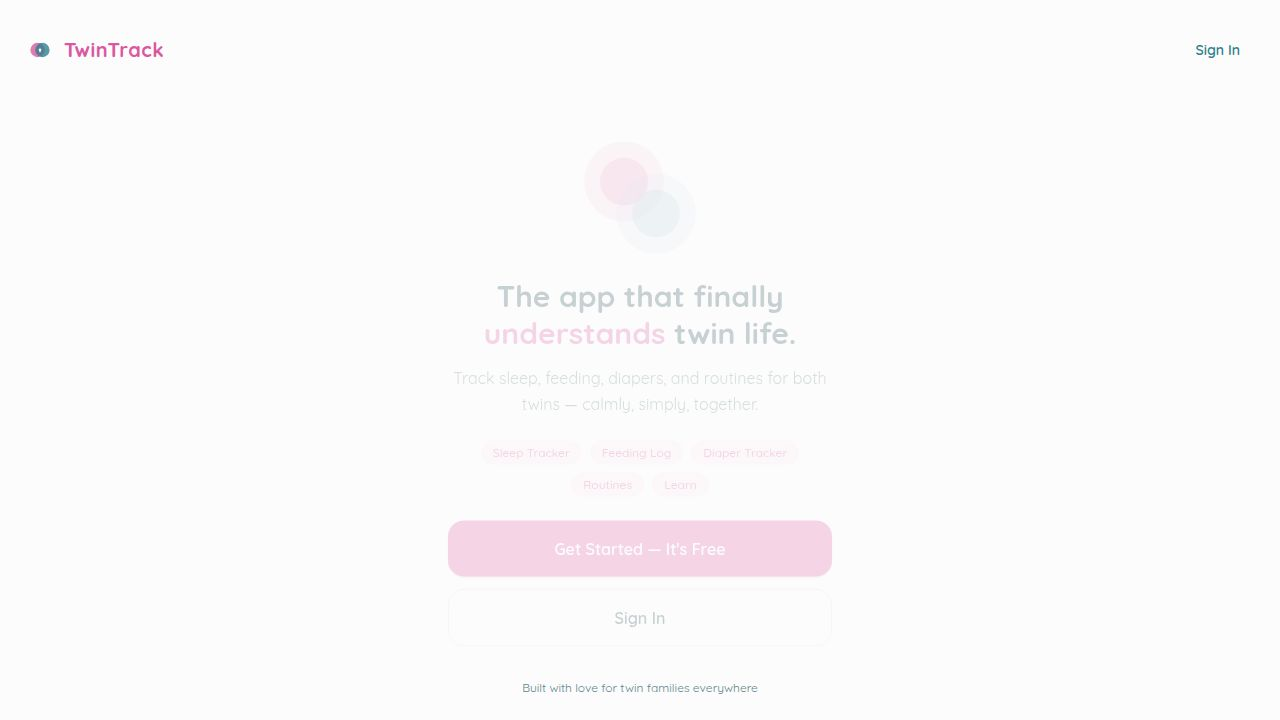
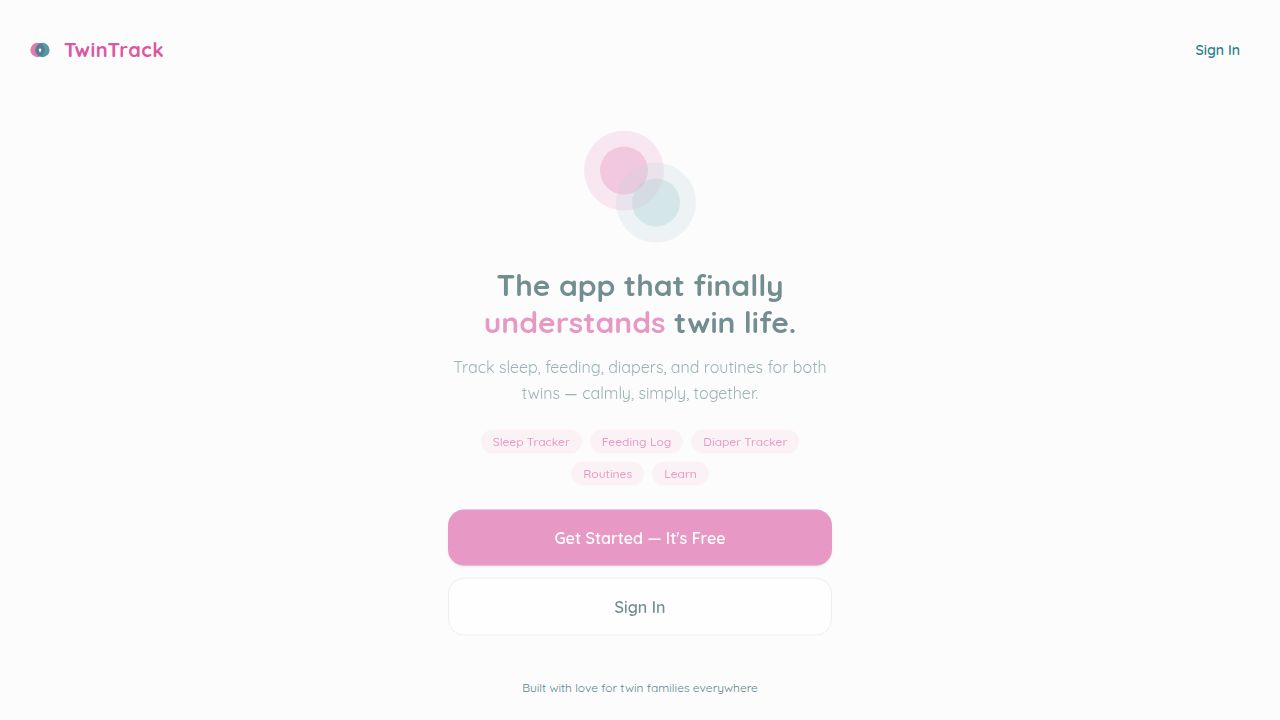
Add caregiver invitation and acceptance flow
Update email sender address, add invite acceptance page, and integrate it into the app's routing.

Replit-Commit-Author: Agent
Replit-Commit-Session-Id: f5ed3eb9-af06-40d8-8ca2-c9c312aa1837
Replit-Commit-Checkpoint-Type: full_checkpoint
Replit-Commit-Event-Id: 3c010cc5-094a-435e-ba3e-4c28eb4870d6
Replit-Commit-Screenshot-Url: https://storage.googleapis.com/screenshot-production-us-central1/cb549dcf-6132-430c-bd0d-0a8318e29405/f5ed3eb9-af06-40d8-8ca2-c9c312aa1837/pKzJKXF
Replit-Helium-Checkpoint-Created: true

diff --git a/artifacts/twintrack/src/pages/InviteAccept.tsx b/artifacts/twintrack/src/pages/InviteAccept.tsx
@@ -1,0 +1,213 @@
+import { useEffect, useState } from "react";
+import { useUser, SignIn, SignUp } from "@clerk/react";
+import { useLocation } from "wouter";
+
+type Step = "loading" | "preview" | "sign-in" | "sign-up" | "accepting" | "done" | "error";
+
+interface InviteInfo {
+  role: string;
+  ownerName?: string;
+}
+
+const basePath = import.meta.env.BASE_URL.replace(/\/$/, "");
+
+export default function InviteAccept() {
+  const { isSignedIn, isLoaded, user } = useUser();
+  const [, setLocation] = useLocation();
+
+  const token = (() => {
+    try { return new URLSearchParams(window.location.search).get("token") ?? ""; }
+    catch { return ""; }
+  })();
+
+  const [step, setStep] = useState<Step>("loading");
+  const [info, setInfo] = useState<InviteInfo | null>(null);
+  const [errorMsg, setErrorMsg] = useState("");
+
+  // Once Clerk loads, decide what to show
+  useEffect(() => {
+    if (!isLoaded) return;
+    if (!token) { setStep("error"); setErrorMsg("Invalid invite link — no token found."); return; }
+    if (isSignedIn) {
+      setStep("accepting");
+    } else {
+      setStep("preview");
+      setInfo({ role: "Caregiver" });
+    }
+  }, [isLoaded, isSignedIn, token]);
+
+  // Accept the invite once signed in
+  useEffect(() => {
+    if (step !== "accepting" || !user?.id || !token) return;
+
+    fetch("/api/caregivers/accept", {
+      method: "POST",
+      headers: { "Content-Type": "application/json" },
+      body: JSON.stringify({ token, userId: user.id }),
+    })
+      .then(async (res) => {
+        if (res.ok) {
+          setStep("done");
+          setTimeout(() => setLocation("/dashboard"), 1800);
+        } else {
+          const body = await res.json().catch(() => ({})) as { error?: string };
+          setErrorMsg(body.error ?? `Invite failed (${res.status})`);
+          setStep("error");
+        }
+      })
+      .catch((err) => {
+        setErrorMsg(String(err));
+        setStep("error");
+      });
+  }, [step, user?.id, token, setLocation]);
+
+  const Shell = ({ children }: { children: React.ReactNode }) => (
+    <div className="min-h-[100dvh] bg-gradient-to-br from-pink-50 via-purple-50 to-white flex flex-col items-center justify-center p-6">
+      <div className="w-full max-w-sm bg-white rounded-3xl shadow-xl overflow-hidden">
+        {/* Header */}
+        <div className="bg-gradient-to-br from-[#e91e8c] to-[#9c27b0] px-6 py-8 text-center">
+          <div className="text-5xl mb-3">👶</div>
+          <p className="text-xs font-bold tracking-widest text-white/70 uppercase mb-1">TwinTrack</p>
+          <h1 className="text-xl font-extrabold text-white leading-snug">
+            You've been invited<br/>to help with the twins 💕
+          </h1>
+        </div>
+        {children}
+      </div>
+    </div>
+  );
+
+  if (step === "loading") {
+    return (
+      <Shell>
+        <div className="px-6 py-10 text-center text-muted-foreground text-sm">
+          Loading invite…
+        </div>
+      </Shell>
+    );
+  }
+
+  if (step === "done") {
+    return (
+      <Shell>
+        <div className="px-6 py-10 text-center space-y-3">
+          <div className="text-5xl">🎉</div>
+          <p className="font-bold text-lg text-foreground">You're in!</p>
+          <p className="text-sm text-muted-foreground">Heading to your family dashboard…</p>
+        </div>
+      </Shell>
+    );
+  }
+
+  if (step === "accepting") {
+    return (
+      <Shell>
+        <div className="px-6 py-10 text-center text-sm text-muted-foreground space-y-3">
+          <div className="w-8 h-8 border-2 border-primary border-t-transparent rounded-full animate-spin mx-auto" />
+          <p>Linking you to the family…</p>
+        </div>
+      </Shell>
+    );
+  }
+
+  if (step === "error") {
+    return (
+      <Shell>
+        <div className="px-6 py-10 text-center space-y-4">
+          <div className="text-4xl">⚠️</div>
+          <p className="font-bold text-foreground">Invite problem</p>
+          <p className="text-sm text-muted-foreground">{errorMsg}</p>
+          <p className="text-xs text-muted-foreground">
+            Ask the parent to send you a fresh invite link from their Settings.
+          </p>
+        </div>
+      </Shell>
+    );
+  }
+
+  if (step === "sign-in") {
+    return (
+      <div className="min-h-[100dvh] bg-gradient-to-br from-pink-50 via-purple-50 to-white flex flex-col items-center justify-center p-4">
+        <SignIn
+          routing="hash"
+          signUpUrl={`${basePath}/invite?token=${token}#sign-up`}
+          fallbackRedirectUrl={`${basePath}/invite?token=${token}`}
+        />
+        <button
+          onClick={() => setStep("preview")}
+          className="mt-4 text-xs text-muted-foreground underline underline-offset-2"
+        >
+          Back
+        </button>
+      </div>
+    );
+  }
+
+  if (step === "sign-up") {
+    return (
+      <div className="min-h-[100dvh] bg-gradient-to-br from-pink-50 via-purple-50 to-white flex flex-col items-center justify-center p-4">
+        <SignUp
+          routing="hash"
+          signInUrl={`${basePath}/invite?token=${token}#sign-in`}
+          fallbackRedirectUrl={`${basePath}/invite?token=${token}`}
+        />
+        <button
+          onClick={() => setStep("preview")}
+          className="mt-4 text-xs text-muted-foreground underline underline-offset-2"
+        >
+          Back
+        </button>
+      </div>
+    );
+  }
+
+  // preview — signed-out landing
+  return (
+    <Shell>
+      <div className="px-6 py-7 space-y-5">
+        {info && (
+          <p className="text-sm text-center text-muted-foreground leading-relaxed">
+            A family has invited you to help track their twins as{" "}
+            <strong className="text-foreground">{info.role}</strong> using TwinTrack.
+          </p>
+        )}
+
+        {/* Feature highlights */}
+        <div className="bg-purple-50 rounded-2xl px-4 py-4 space-y-2">
+          {[
+            "🌙 Track sleep together",
+            "🍼 Log feedings in one tap",
+            "🚼 Record diaper changes",
+            "📊 Live dashboard for both babies",
+          ].map((f) => (
+            <p key={f} className="text-xs text-muted-foreground">{f}</p>
+          ))}
+        </div>
+
+        {/* CTAs */}
+        <div className="space-y-2.5">
+          <button
+            onClick={() => setStep("sign-up")}
+            className="w-full py-3.5 rounded-2xl bg-gradient-to-r from-[#e91e8c] to-[#9c27b0] text-white font-bold text-sm shadow-md active:scale-95 transition-all"
+            data-testid="btn-invite-create-account"
+          >
+            Create a free account →
+          </button>
+          <button
+            onClick={() => setStep("sign-in")}
+            className="w-full py-3.5 rounded-2xl border border-border text-sm font-semibold text-foreground active:scale-95 transition-all"
+            data-testid="btn-invite-sign-in"
+          >
+            I already have an account — Sign in
+          </button>
+        </div>
+
+        <p className="text-[11px] text-center text-muted-foreground leading-relaxed">
+          TwinTrack is free for caregivers. By joining you agree to our{" "}
+          <a href="https://allaboutwins.com/terms" className="underline">Terms</a> and{" "}
+          <a href="https://allaboutwins.com/privacy" className="underline">Privacy Policy</a>.
+        </p>
+      </div>
+    </Shell>
+  );
+}

diff --git a/artifacts/api-server/src/lib/email.ts b/artifacts/api-server/src/lib/email.ts
@@ -21,7 +21,7 @@ async function sendWithResend(params: CaregiverInviteParams): Promise<EmailResul
   }
   const resend = new Resend(apiKey);
   const { data, error } = await resend.emails.send({
-    from: "TwinTrack <[email redacted]>",
+    from: "TwinTrack <[email redacted]>",
     to: params.to,
     subject: `${params.parentName} invited you to help with the twins 💕`,
     html: buildCaregiverInviteHtml(params),

diff --git a/artifacts/twintrack/src/App.tsx b/artifacts/twintrack/src/App.tsx
@@ -31,6 +31,7 @@ import TwinAI from "@/pages/TwinAI";
 import VideoAdmin from "@/pages/VideoAdmin";
 import Admin from "@/pages/Admin";
 import Stats from "@/pages/Stats";
+import InviteAccept from "@/pages/InviteAccept";
 
 const clerkPubKey = publishableKeyFromHost(
   window.location.hostname,
@@ -537,6 +538,7 @@ function ClerkProviderWithRoutes() {
                   <ProtectedRoute component={Settings} />
                 </RouteErrorBoundary>
               </Route>
+              <Route path="/invite" component={InviteAccept} />
               <Route component={NotFound} />
             </Switch>
           </PageTransition>